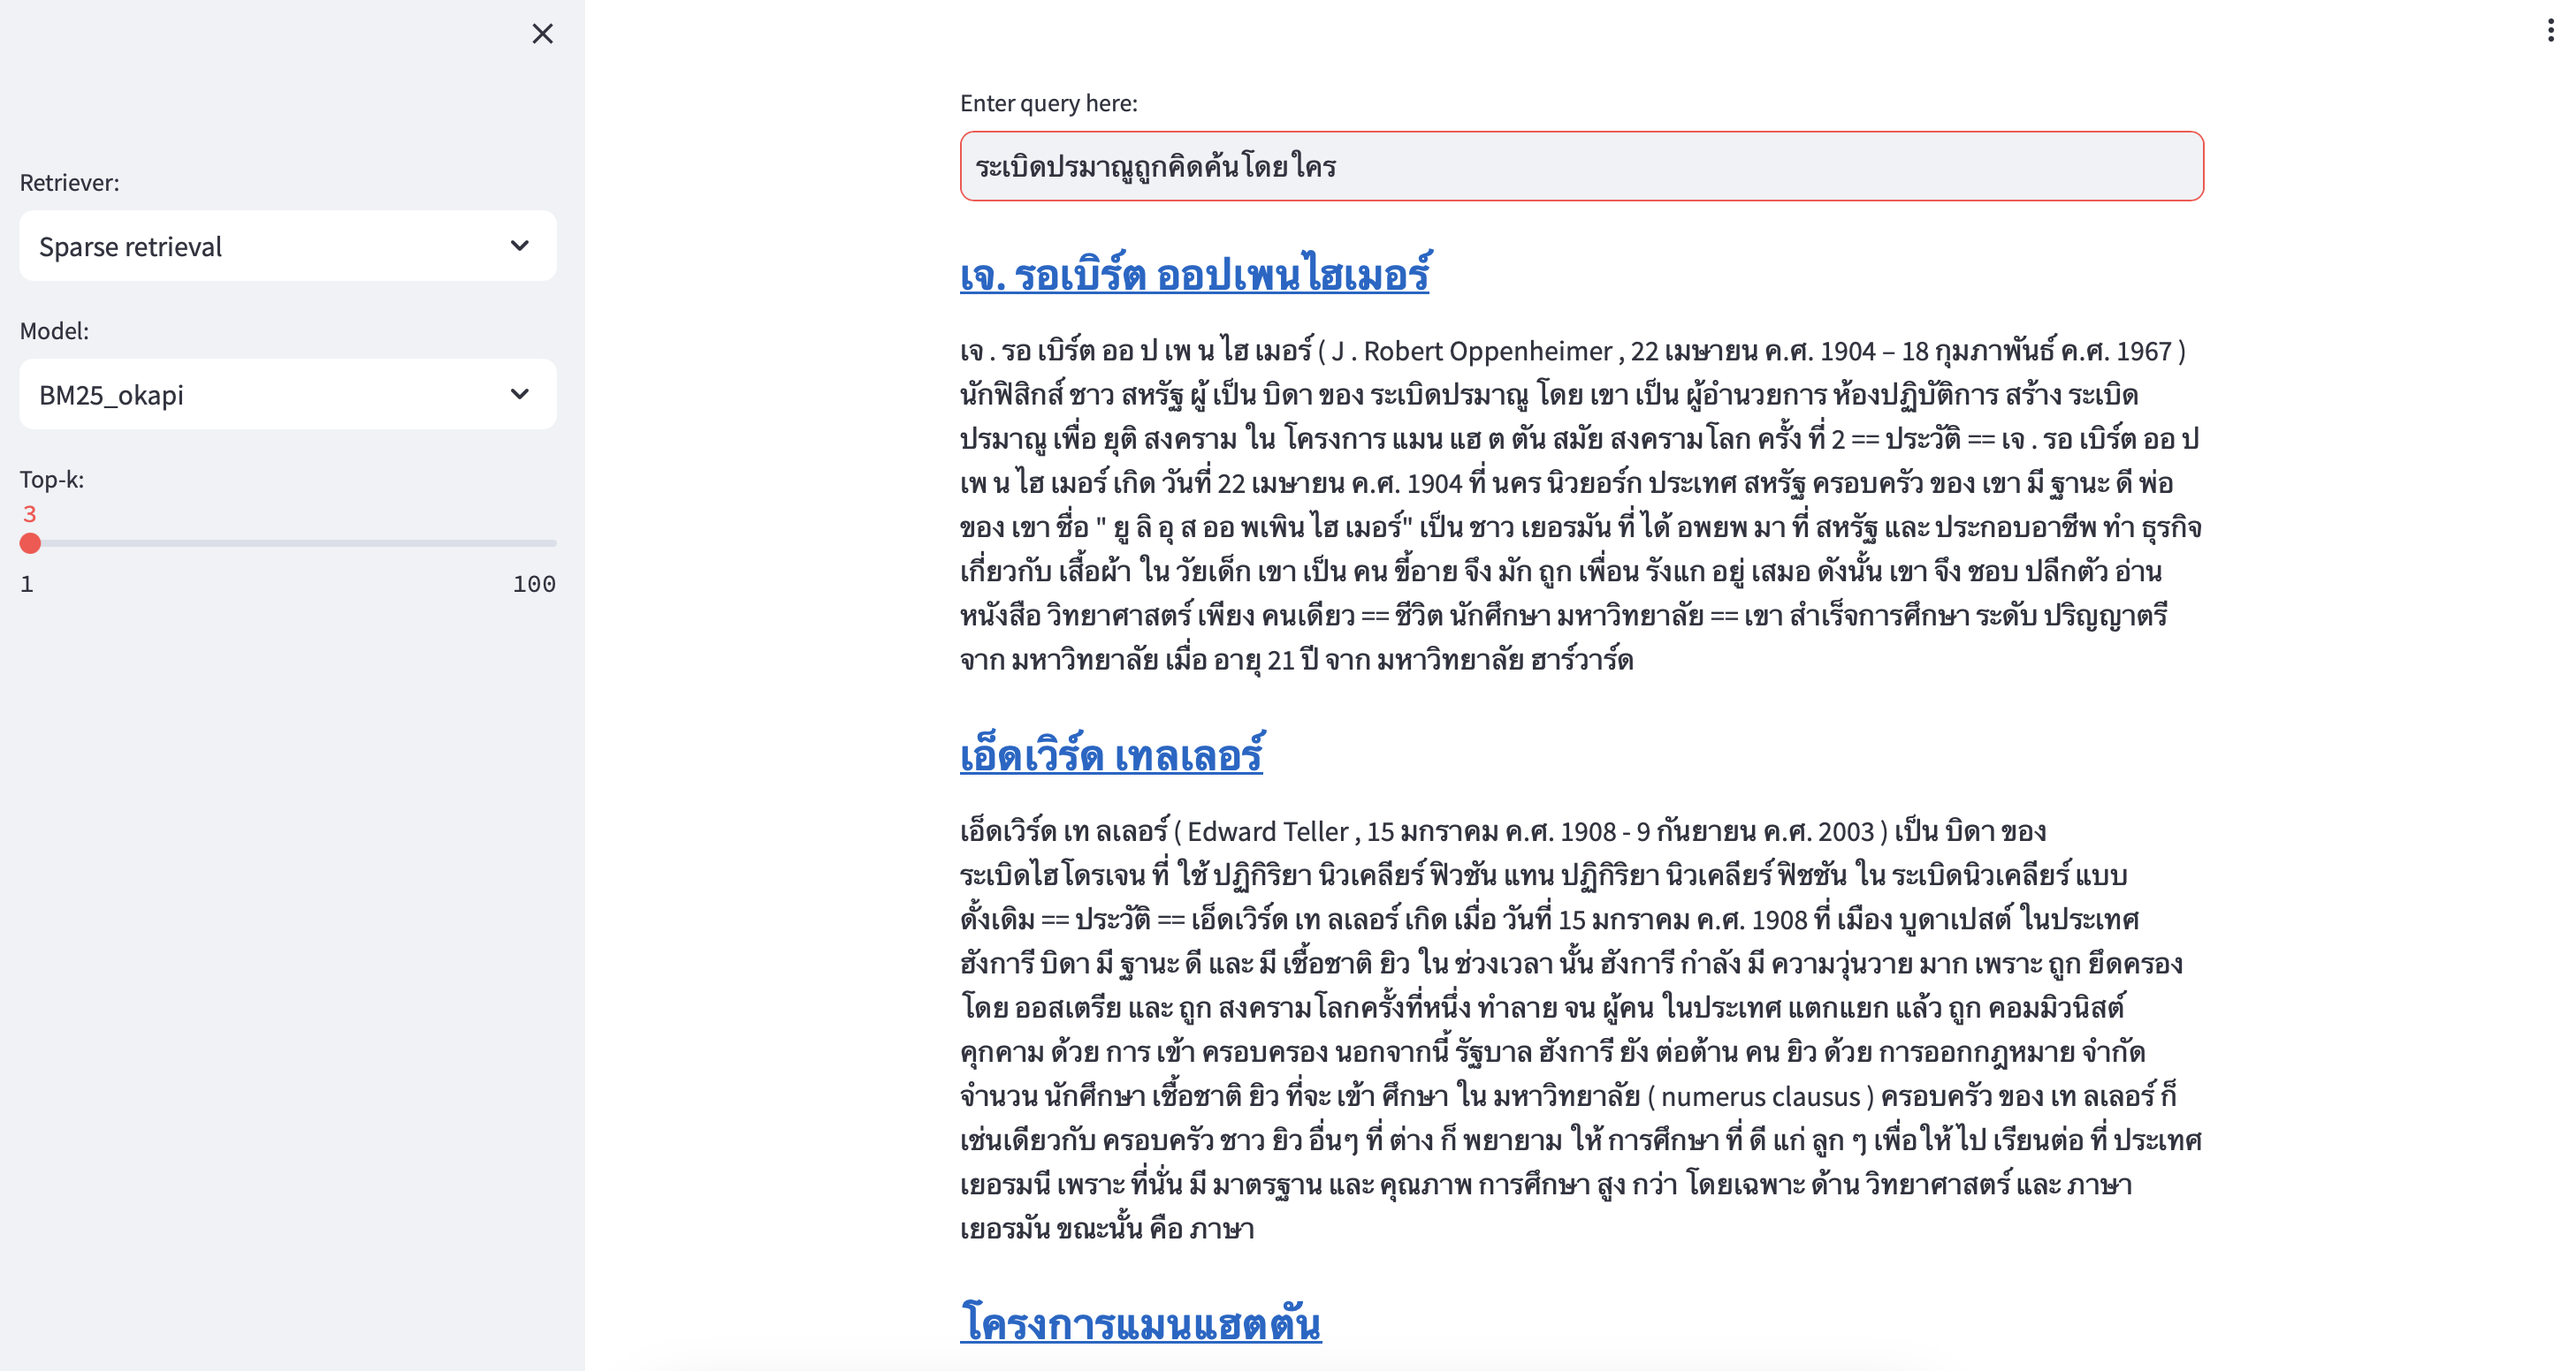
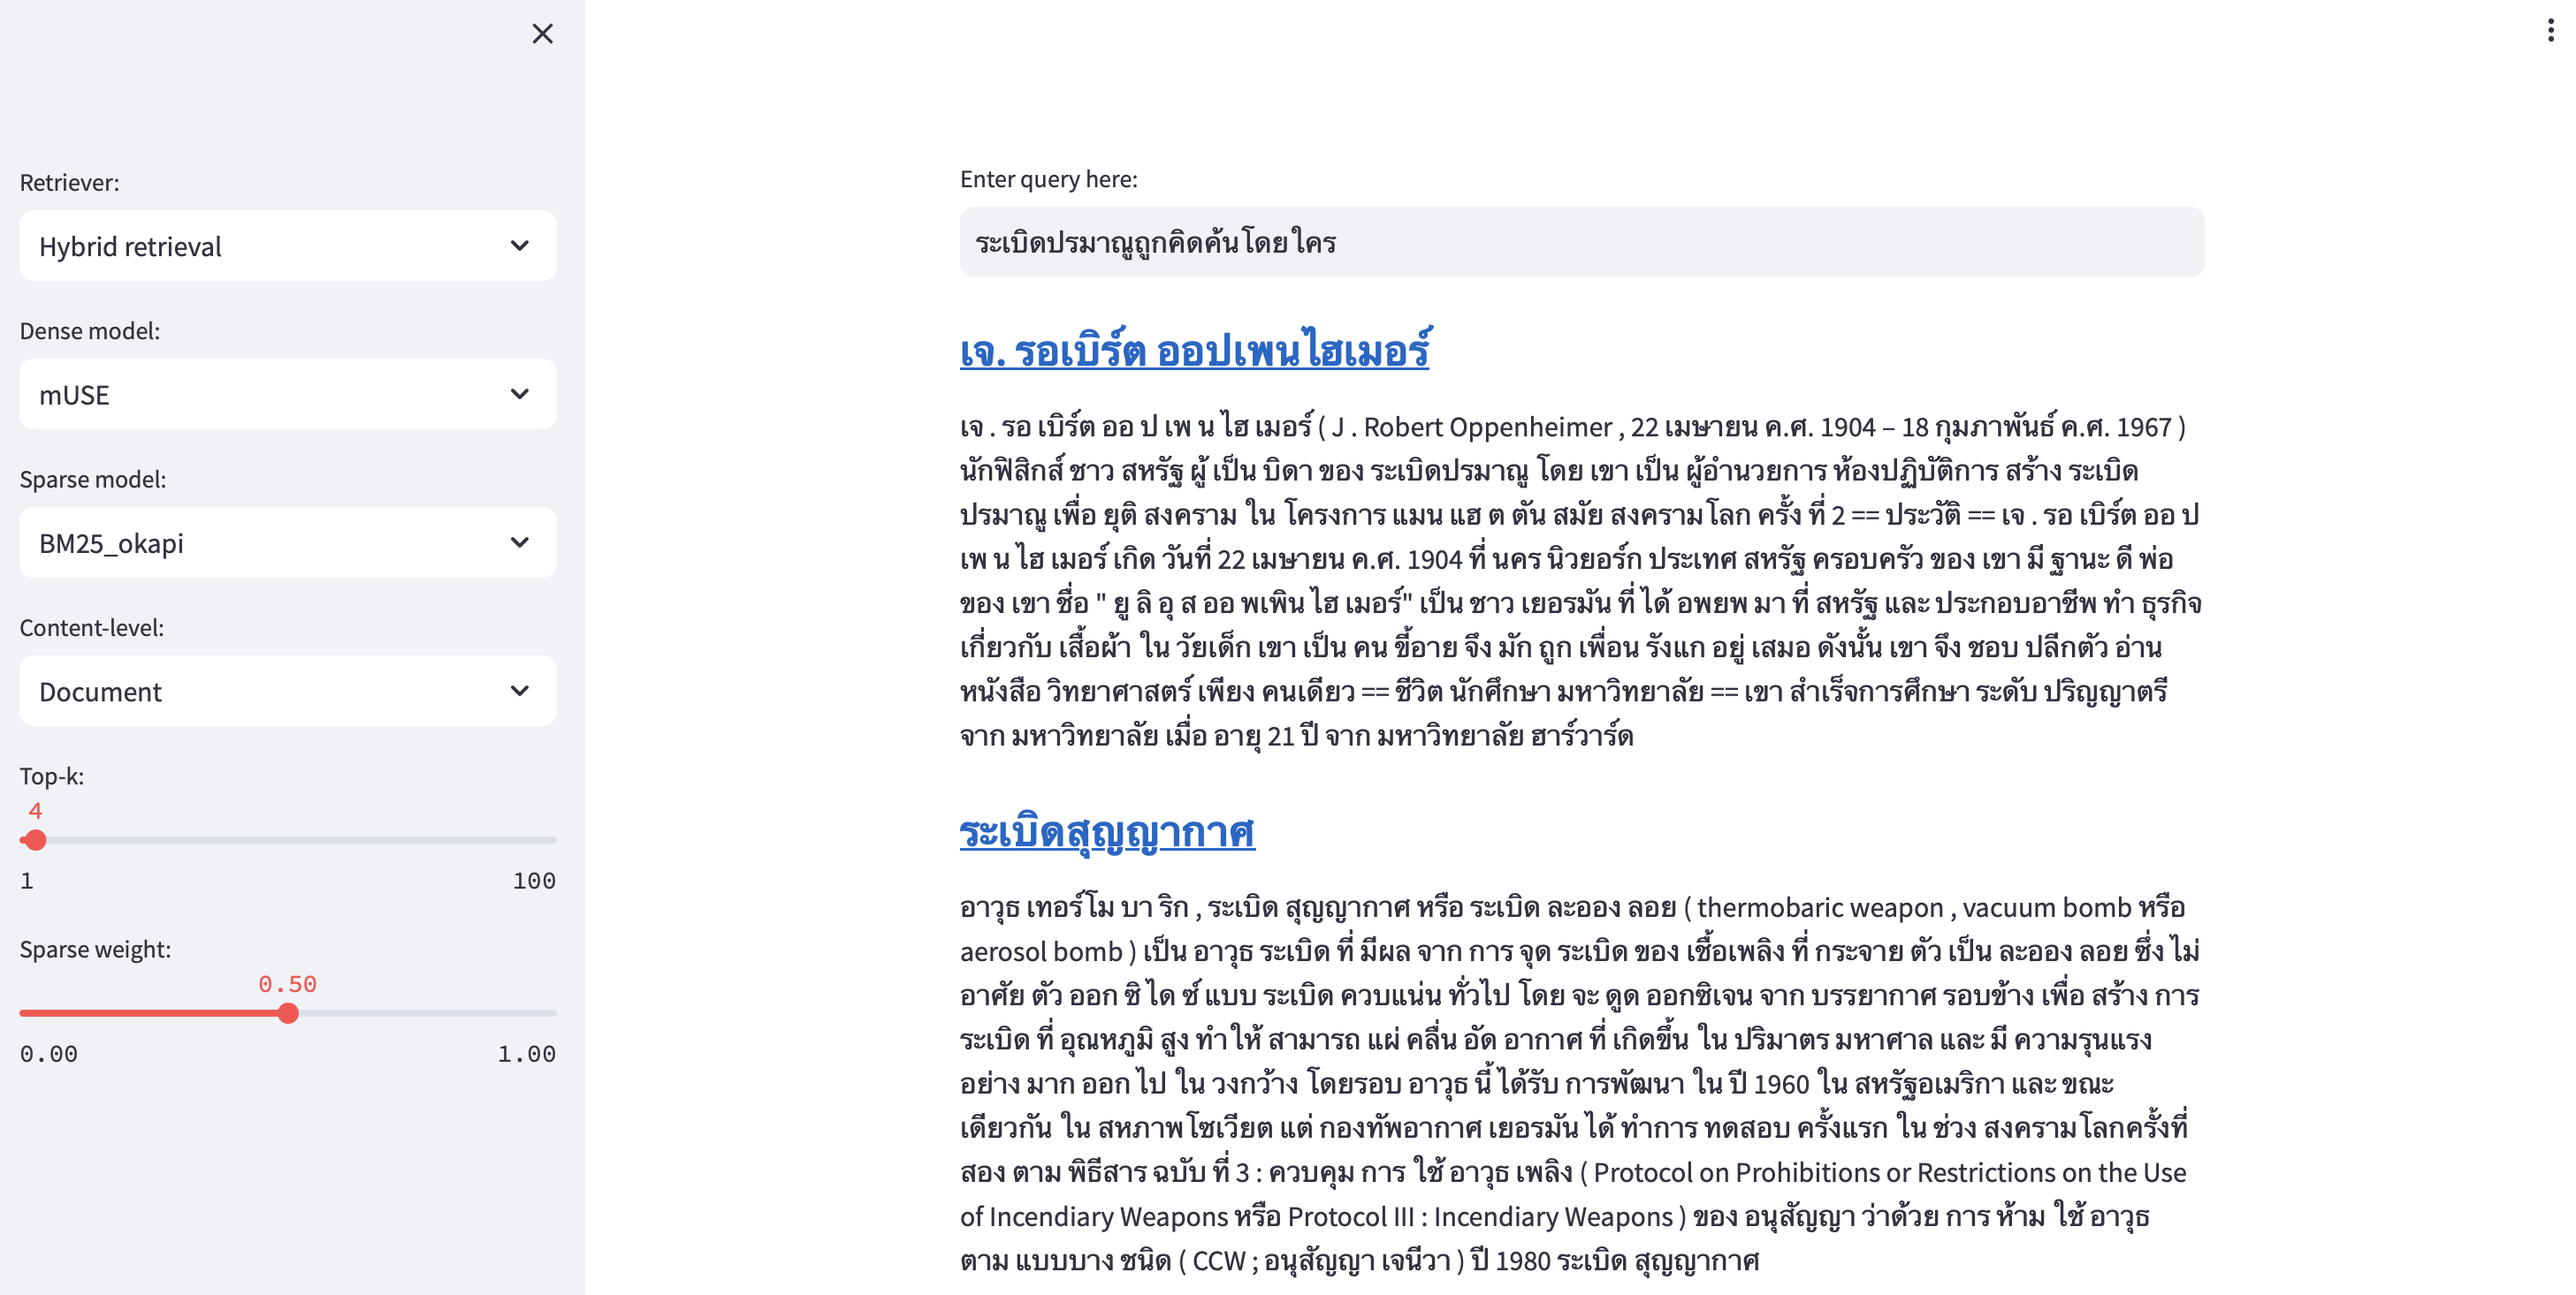
update demo_app

diff --git a/demo_app.py b/demo_app.py
@@ -6,6 +6,7 @@ from mkr.retrievers.baseclass import Retriever
 from mkr.resources.resource_manager import ResourceManager
 from mkr.retrievers.dense_retriever import DenseRetriever
 from mkr.retrievers.sparse_retriever import BM25SparseRetriever
+from mkr.retrievers.hybrid_retriever import HybridRetriever
 from mkr.retrievers.document_retriever import DocumentRetriever
 
 
@@ -15,35 +16,59 @@ if "init" not in st.session_state:
     st.session_state.init = True
 
     st.session_state.resource_manager = ResourceManager(force_download=False)
-    st.session_state.retriever: Retriever = DenseRetriever.from_indexed(st.session_state.resource_manager.get_index_path(f"wikipedia_th_v2_mUSE"))
-    st.session_state.doc_retriever: DocumentRetriever = DocumentRetriever(st.session_state.retriever)
+    st.session_state.dense_retriever: Retriever = DenseRetriever.from_indexed(
+        st.session_state.resource_manager.get_index_path(f"wikipedia_th_v2_mUSE")
+    )
+    st.session_state.sparse_retriever: Retriever = BM25SparseRetriever.from_indexed(
+        st.session_state.resource_manager.get_index_path(f"wikipedia_th_v2_bm25_okapi_newmm")
+    )
+    st.session_state.hybrid_retriever: Retriever = HybridRetriever(
+        dense_retriever=st.session_state.dense_retriever,
+        sparse_retriever=st.session_state.sparse_retriever,
+    )
+    st.session_state.retriever: Retriever = DocumentRetriever(st.session_state.sparse_retriever)
     st.session_state.response: List[Dict[str, str]] = None
     
-    st.session_state.current_retriever: str = "Dense retrieval"
-    st.session_state.selecting_retriever: str = "Dense retrieval"
-    st.session_state.current_model: str = "mUSE"
-    st.session_state.selecting_model: str = "mUSE"
+    st.session_state.selecting_retriever: str = "Sparse retrieval"
+    st.session_state.selecting_content_level: str = "Document"
+    st.session_state.sparse_weight: float = 0.5
     st.session_state.query: str = ""
 
 # Callbacks
 def on_search():
     query = st.session_state.query
-    doc_retriever = st.session_state.doc_retriever
+    if query == "":
+        return
+    retriever = st.session_state.retriever
 
-    results = doc_retriever([query], top_k=st.session_state.top_k)[0]
+    if st.session_state.selecting_retriever == "Hybrid retrieval":
+        results = retriever([query], top_k=st.session_state.top_k, sparse_weight=st.session_state.sparse_weight).resultss[0]
+    else:
+        results = retriever([query], top_k=st.session_state.top_k).resultss[0]
     st.session_state.response = results
 
 def on_selecting_retriever():
-    if st.session_state.selecting_retriever != st.session_state.current_retriever:
+    if st.session_state.selecting_retriever == "Hybrid retrieval":
+        if st.session_state.selecting_content_level == "Document":
+            st.session_state.hybrid_retriever.dense_retriever = DocumentRetriever(st.session_state.dense_retriever)
+            st.session_state.hybrid_retriever.sparse_retriever = DocumentRetriever(st.session_state.sparse_retriever)
+        elif st.session_state.selecting_content_level == "Paragraph":
+            st.session_state.hybrid_retriever.dense_retriever = st.session_state.dense_retriever
+            st.session_state.hybrid_retriever.sparse_retriever = st.session_state.sparse_retriever
+        st.session_state.retriever = st.session_state.hybrid_retriever
+    else:
         if st.session_state.selecting_retriever == "Sparse retrieval":
-            st.session_state.retriever = BM25SparseRetriever.from_indexed(st.session_state.resource_manager.get_index_path(f"wikipedia_th_v2_bm25_okapi_newmm"))
+            retriever = st.session_state.sparse_retriever
         elif st.session_state.selecting_retriever == "Dense retrieval":
-            st.session_state.retriever = DenseRetriever.from_indexed(st.session_state.resource_manager.get_index_path(f"wikipedia_th_v2_mUSE"))
-        st.session_state.doc_retriever = DocumentRetriever(st.session_state.retriever)
-        st.session_state.current_retriever = st.session_state.selecting_retriever
-        st.session_state.query = ""
-        st.session_state.response = None
-        st.toast(f"Retriever changed to {st.session_state.selecting_retriever}")
+            retriever = st.session_state.dense_retriever
+
+        if st.session_state.selecting_content_level == "Document":
+            st.session_state.retriever = DocumentRetriever(retriever)
+        elif st.session_state.selecting_content_level == "Paragraph":
+            st.session_state.retriever = retriever
+
+    on_search()
+    st.toast(f"Retriever changed to {st.session_state.selecting_content_level}-Level {st.session_state.selecting_retriever}.")
 
 # Frontend
 st.text_input("Enter query here:", key="query", on_change=on_search)
@@ -51,22 +76,33 @@ st.text_input("Enter query here:", key="query", on_change=on_search)
 with st.sidebar:
     st.selectbox(
         "Retriever:", 
-        ["Sparse retrieval", "Dense retrieval"], 
+        ["Sparse retrieval", "Dense retrieval", "Hybrid retrieval"], 
         key="selecting_retriever",
         on_change=on_selecting_retriever
     )
     if st.session_state.selecting_retriever == "Sparse retrieval":
-        st.selectbox("Model:", ["BM25_okapi"], key="selecting_model", on_change=on_selecting_retriever)
+        st.selectbox("Model:", ["BM25_okapi"], key="selecting_sparse_model", on_change=on_selecting_retriever)
     elif st.session_state.selecting_retriever == "Dense retrieval":
-        st.selectbox("Model:", ["mUSE"], key="selecting_model", on_change=on_selecting_retriever)
+        st.selectbox("Model:", ["mUSE"], key="selecting_dense_model", on_change=on_selecting_retriever)
+    elif st.session_state.selecting_retriever == "Hybrid retrieval":
+        st.selectbox("Dense model:", ["mUSE"], key="selecting_dense_model", on_change=on_selecting_retriever)
+        st.selectbox("Sparse model:", ["BM25_okapi"], key="selecting_sparse_model", on_change=on_selecting_retriever)
+    st.selectbox(
+        "Content-level:",
+        ["Paragraph", "Document"],
+        key="selecting_content_level",
+        on_change=on_selecting_retriever
+    )
     st.slider("Top-k:", 1, 100, 3, key="top_k", on_change=on_search)
+    if st.session_state.selecting_retriever == "Hybrid retrieval":
+        st.slider("Sparse weight:", 0.0, 1.0, 0.5, key="sparse_weight", on_change=on_search)
 
 if st.session_state.response is not None:
     results = st.session_state.response
-    for result in results:
-        url = result["url"]
-        title = result["title"]
-        content = result["content"]
+    for result in results.values():
+        url = result["doc_url"]
+        title = result["doc_title"]
+        content = result["doc_text"]
         content = " ".join(word_tokenize(content)[:200])
         st.markdown(f"#### [{title}]({url})")
         st.markdown(content)
